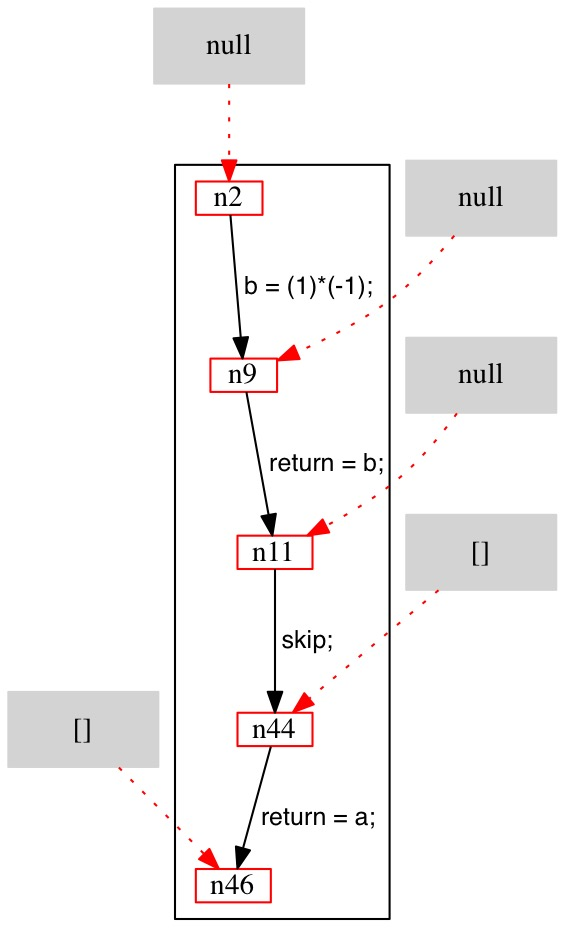
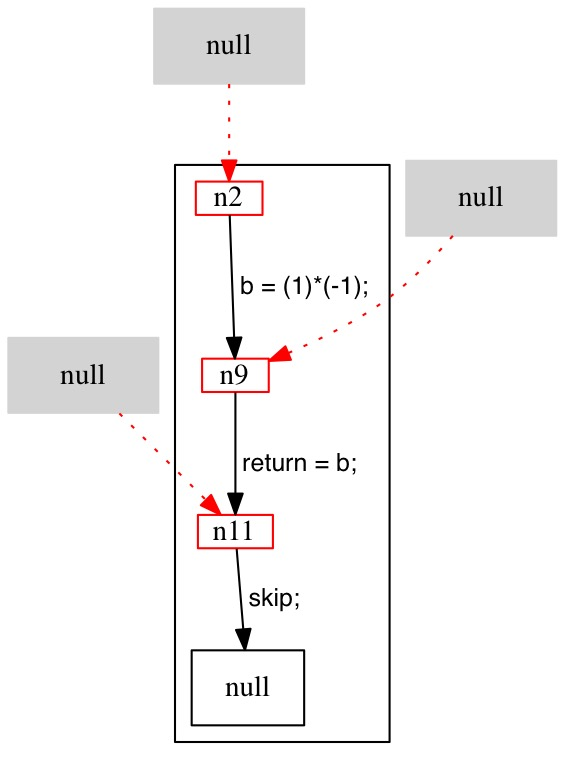
created callgraph

diff --git a/cfgstructure/src/petter/cfg/InliningAnalysis.java b/cfgstructure/src/petter/cfg/InliningAnalysis.java
@@ -16,13 +16,6 @@ public class InliningAnalysis extends AbstractPropagatingVisitor<HashSet<Integer
         return theunion;
     }
 
-    // static HashSet<Integer> lessoreq(HashSet<Integer> b1, HashSet<Integer> b2){
-    //     if (b1==null) return new HashSet<Integer>();
-    //     if (b2==null) return null;
-    //     // return ((!b1) || b2);
-    //     return
-    // }
-
     CompilationUnit cu;
     ArrayList<String> conditions;
     TransitionFactory tf;
@@ -34,33 +27,24 @@ public class InliningAnalysis extends AbstractPropagatingVisitor<HashSet<Integer
     }
 
     public HashSet<Integer> visit(Procedure s, HashSet<Integer> b){
-        // System.out.println(Arrays.toString(this.getQueue()));
         System.out.println("Visiting Procedure: "+s.getName());
         if(b == null) b = new HashSet<Integer>();
-        // Iterator<Integer> itr = b.iterator();
-        // while(itr.hasNext()){
-        //     System.out.println(itr.next());
-        // }
         return b;
     }
 
 
     public HashSet<Integer> visit(GuardedTransition s, HashSet<Integer> b){
         System.out.println("Visiting: if with guard: "+s.getAssertion());
-        // System.out.println(Arrays.toString(this.getQueue()));
-
-        System.out.println("b: "+s.getOperator());
+        // System.out.println("b: "+s.getOperator());
         return b;
     }
 
 
     public HashSet<Integer> visit(Assignment s, HashSet<Integer> b){
         System.out.println("Visiting assignment: "+s.getLhs()+" = "+s.getRhs());
-        // System.out.println(Arrays.toString(this.getQueue()));
         System.out.println("original Destination: "+s.getDest());
         if(s.getRhs().hasMethodCall()){
             petter.cfg.expression.MethodCall mc = (petter.cfg.expression.MethodCall) s.getRhs();
-            // enter(cu.getProcedure(mc.getName()), b);
             Procedure caller = s.getDest().getMethod();
             Procedure callee = cu.getProcedure(mc.getName());
              
@@ -78,12 +62,10 @@ public class InliningAnalysis extends AbstractPropagatingVisitor<HashSet<Integer
             s.removeEdge();
             Transition nopin = this.tf.createMethodCall(s.getSource(), firstState, mc);
             s.getSource().addOutEdge(nopin);
-            // System.out.println("Source: "+s.getSource()+" redirected to start: "+firstState);
             Transition nopout = this.tf.createNop(lastState, s.getDest());
             lastState.addOutEdge(nopout);
             lastState.setEnd(false);
             caller.refreshStates();
-            // callee.refreshStates();
         }
         return b;
     }
@@ -94,9 +76,7 @@ public class InliningAnalysis extends AbstractPropagatingVisitor<HashSet<Integer
         // of the callee
         System.out.println("Visiting: MethodCall of: "+m.getCallExpression().getName());
         System.out.println("original Destination: "+m.getDest());
-        // System.out.println(Arrays.toString(this.getQueue()));
         
-        // enter(cu.getProcedure(m.getCallExpression().getName()), null);
         Procedure caller = m.getDest().getMethod();
         Procedure callee = cu.getProcedure(m.getCallExpression().getName());
         
@@ -114,50 +94,20 @@ public class InliningAnalysis extends AbstractPropagatingVisitor<HashSet<Integer
         m.removeEdge();
         Transition nopin = this.tf.createMethodCall(m.getSource(), firstState, m.getCallExpression());
         m.getSource().addOutEdge(nopin);
-        // System.out.println("Source: "+m.getSource()+" redirected to start: "+firstState);
 
         Transition nopout = this.tf.createNop(lastState, m.getDest());
         lastState.addOutEdge(nopout);
         lastState.setEnd(false);
         caller.refreshStates();
-        // callee.refreshStates();
-        // for(State newState : caller.getStates()){
-        //     System.out.println("New states: "+newState);
-        // }
         return b;
     }
 
     public HashSet<Integer> visit(State s, HashSet<Integer> newflow){
-        // Iterator<Transition> inEdges = s.getInIterator();
-        // while(inEdges.hasNext()){
-        //     Transition inEdge = inEdges.next();
-        //     System.out.println(inEdge);
-        // }
         System.out.println("Visiting state:"+ s.toString());
-        // System.out.println(Arrays.toString(this.getQueue()));
-        // System.out.println("Is loop seperator: "+s.isLoopSeparator());
-
         HashSet<Integer> oldflow = dataflowOf(s);
-        // System.out.println("oldflow: "+oldflow);
-        // System.out.println("newflow: "+newflow);        
-        // if (!lessoreq(newflow, oldflow)){
         newflow = new HashSet<Integer>();
         HashSet<Integer> newval = lub(oldflow, newflow);
         dataflowOf(s, newval);
-        // System.out.println("Set newflow as: "+newflow);
-        // Iterator<Transition> outEdges = s.getOutIterator();
-        // while(outEdges.hasNext()){
-        //     Transition outEdge = outEdges.next();
-        //     if(outEdge.hasMethodCall()){
-        //         TransitionFactory factory = new TransitionFactory();
-        //         petter.cfg.expression.MethodCall mc = outEdge.getCallExpression();
-        //         String calleeName = mc.getName();
-        //         Procedure callee = this.cu.getProcedure(calleeName);
-        //         s.deleteOutEdge(outEdge);
-        //         s.addOutEdge(factory.createMethodCall(s, callee.getBegin(), outEdge));
-        //     }
-        // }
-
         return newval;
     }
 

diff --git a/cfgstructure/src/petter/cfg/CallGraphBuilder.java b/cfgstructure/src/petter/cfg/CallGraphBuilder.java
@@ -1,0 +1,73 @@
+package petter.cfg;
+import petter.cfg.*;
+import petter.cfg.edges.*;
+import java.io.*;
+import java.util.*;
+
+
+public class CallGraphBuilder extends AbstractVisitor{
+    
+    CompilationUnit cu;
+    private HashMap<Procedure, ArrayList<Procedure>> callGraph;
+    public CallGraphBuilder(CompilationUnit cu){
+        super(true); // forward reachability
+        this.cu=cu;
+        this.callGraph = new HashMap<Procedure, ArrayList<Procedure>>();
+        Iterator<Procedure> methodIterator = cu.iterator();
+        while(methodIterator.hasNext()){
+            this.callGraph.put(methodIterator.next(), new ArrayList<Procedure>());
+        }
+    }
+
+    public boolean visit(Procedure s){
+        System.out.println("Visiting Procedure: "+s.getName());
+        return true;
+    }
+
+
+    public boolean visit(GuardedTransition s){
+        System.out.println("Visiting: if with guard: "+s.getAssertion());
+        // System.out.println("b: "+s.getOperator());
+        return true;
+    }
+
+
+    public boolean visit(Assignment s){
+        System.out.println("Visiting assignment: "+s.getLhs()+" = "+s.getRhs());
+        System.out.println("original Destination: "+s.getDest());
+        if(s.getRhs().hasMethodCall()){
+            petter.cfg.expression.MethodCall mc = (petter.cfg.expression.MethodCall) s.getRhs();
+            Procedure caller = s.getSource().getMethod();
+            // System.out.println("These should be equal: "+caller+" "+currentProc);
+            Procedure callee = cu.getProcedure(mc.getName());
+            ArrayList<Procedure> calledProcs = this.callGraph.get(caller);
+            calledProcs.add(callee);
+            this.callGraph.put(caller, calledProcs);
+        }
+        return true;
+    }
+
+    public boolean visit(MethodCall m){
+        // method calls need special attention; in this case, we just 
+        // continue with analysing the next state and triggering the analysis
+        // of the callee
+        System.out.println("Visiting: MethodCall of: "+m.getCallExpression().getName());
+        Procedure caller = m.getDest().getMethod();
+        Procedure callee = cu.getProcedure(m.getCallExpression().getName());
+        // System.out.println("These should be equal: "+caller+" "+currentProc);
+        ArrayList<Procedure> calledProcs = this.callGraph.get(caller);
+        calledProcs.add(callee);
+        this.callGraph.put(caller, calledProcs);
+        return true;
+    }
+
+    public boolean visit(State s, boolean newflow){
+        System.out.println("Visiting state:"+ s.toString());
+        return true;
+    }
+
+    public HashMap<Procedure, ArrayList<Procedure>> getCallGraph(){
+        this.fullAnalysis();
+        return this.callGraph;
+    }
+}

diff --git a/cfgstructure/src/petter/cfg/Optimizer.java b/cfgstructure/src/petter/cfg/Optimizer.java
@@ -1,0 +1,35 @@
+package petter.cfg;
+import petter.cfg.*;
+import petter.cfg.edges.*;
+import java.io.*;
+import java.util.*;
+
+public class Optimizer{
+	public static void main(String[] args) throws Exception {
+	    CompilationUnit cu = petter.simplec.Compiler.parse(new File(args[0]));
+	    CallGraphBuilder callGraphBuilder = new CallGraphBuilder(cu);
+	    
+	    Iterator<Procedure> allmethods = cu.iterator();        
+	    while(allmethods.hasNext()){
+	    	callGraphBuilder.enter(allmethods.next());
+	    }
+
+	    HashMap<Procedure, ArrayList<Procedure>> callGraph = callGraphBuilder.getCallGraph();
+	    for(Procedure method : callGraph.keySet()){
+	    	System.out.println(method.getName()+" calls: "+callGraph.get(method));
+	    }
+	    InliningAnalysis ra = new InliningAnalysis(cu);
+	    Procedure __main = cu.getProcedure("main");
+	    // ra.enter(__main, null);
+	    // ra.fullAnalysis();
+	    // allmethods = ra.cu.iterator();        
+	    // while(allmethods.hasNext()){
+	    //     Procedure proc = allmethods.next();
+	    //     DotLayout layout = new DotLayout("jpg", proc.getName()+"After.jpg");
+	    //     for (State s: proc.getStates()){
+	    //         layout.highlight(s,(ra.dataflowOf(s))+"");
+	    //     }
+	    //     layout.callDot(proc);
+	    // }
+	}
+}

diff --git a/cfgstructure/src/petter/cfg/test.c b/cfgstructure/src/petter/cfg/test.c
@@ -1,17 +1,20 @@
 int bar(){
 	int b = -1;
+	b = foo(2);
 	return b;
 }
 
 int foo(int a){
 	a = 2;
+	bar();
+	a = foo(3);
 	return 1;
 }
 
 int main(){
 	int a, b;
 	a = 0;
-	// b = foo(a);
+	b = foo(a);
 	bar();
 	return a;
 }
